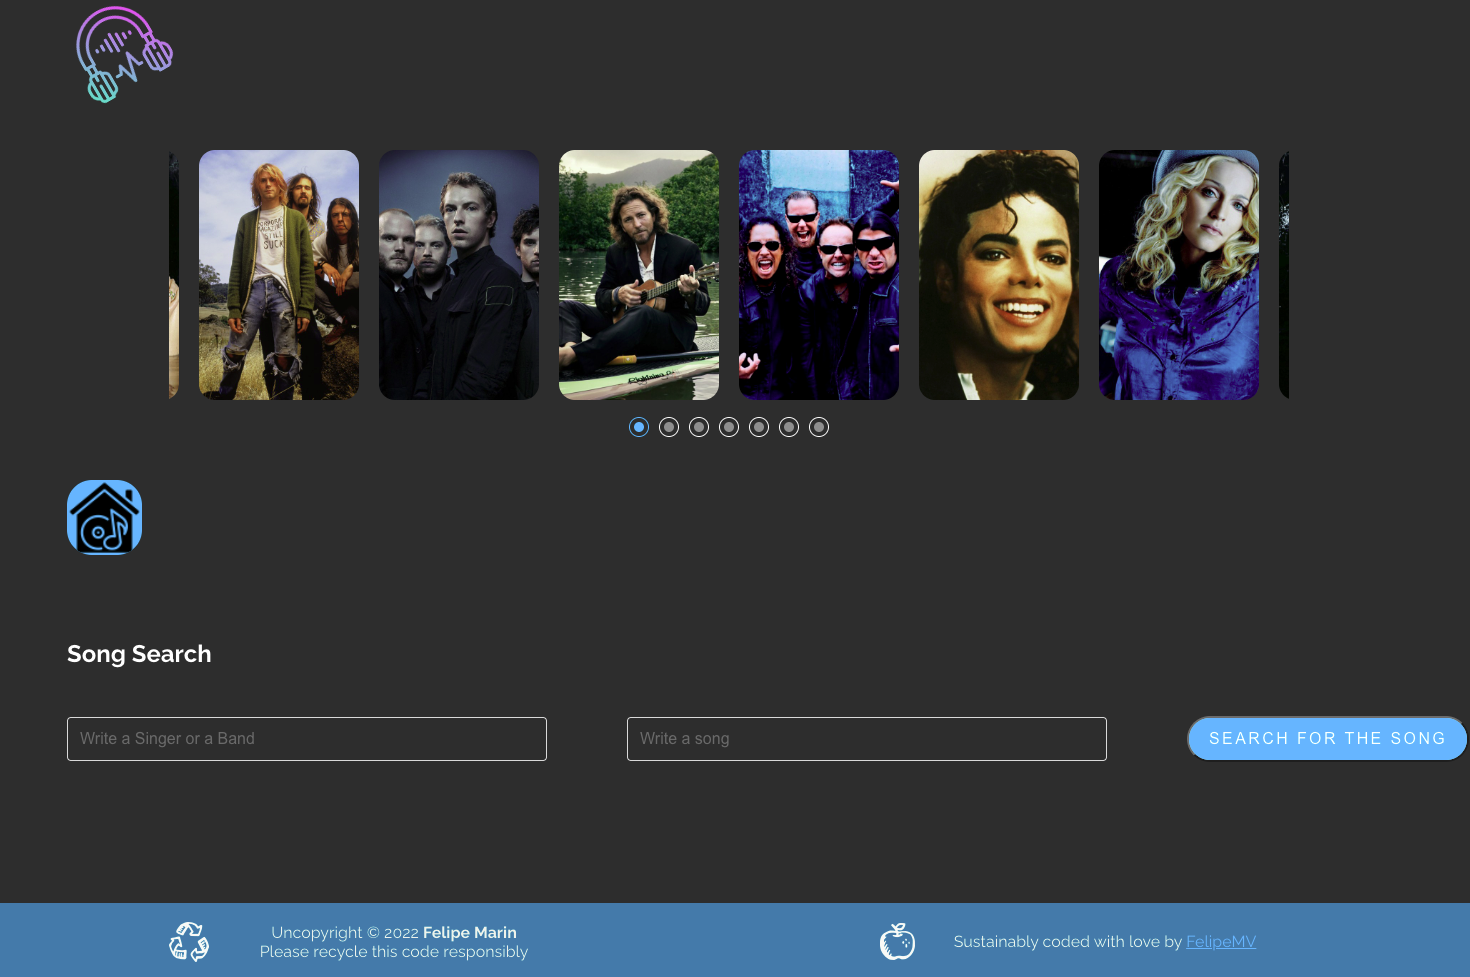
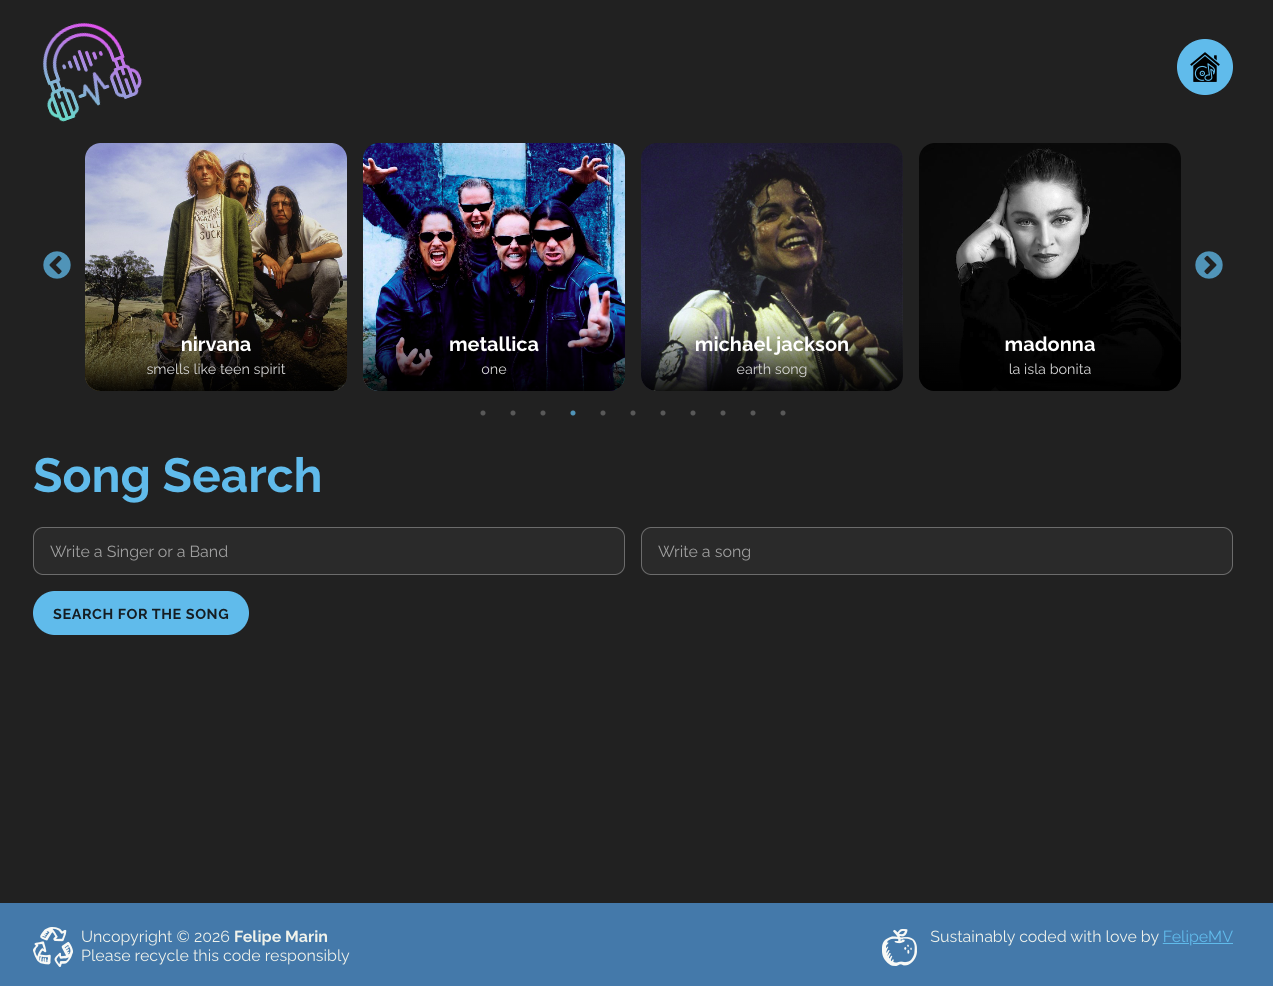
Update project README and application preview

diff --git a/README.md b/README.md
@@ -1,24 +1,149 @@
-# Music Player
+# MusicPlayer
 
-You can check out the link for this project: https://pipe-mv.github.io/MusicPlayer/
+A responsive React and TypeScript application for discovering music. Search by
+artist and song to watch matching YouTube videos, read lyrics, learn about the
+artist, and save favourite songs for later.
 
-### What is this?
+[View the live application](https://pipe-mv.github.io/MusicPlayer/)
 
-This is a repo that houses the base code for a React.js application. The Music Player app will allow the user to search and play the video of any song. Additionally it will display the lyrics and information about the singer or band. Also, allow the users to save theirs favorite songs in a carousel which make it easy to scroll and select the favorite song once it is saved!
+![MusicPlayer application preview](./src/images/LandingPage.png)
 
-![](./src/images/LandingPage.png)
+## Features
 
-## Clone the repository
+- Search for songs by artist and title.
+- Watch matching videos with the embedded YouTube player.
+- Read song lyrics and artist information.
+- Save and remove favourite songs in browser storage.
+- Browse favourites in a responsive carousel.
+- Use the application across phone, tablet, and desktop screen sizes.
+- Navigate directly to saved song details with client-side routing.
 
-### Create a .env file inside the main directory
+## Technology
 
-1. Create a .env file just like .env file
-2. Take your Application Key from (https://developers.google.com/youtube/v3) website (sign up for the API and then you will get the necessary id and key for the .env) and fill out the variable with the name REACT_APP_YOUTUBE_API_KEY in the .env file.
+- React 19
+- TypeScript
+- React Router
+- React Player
+- React Slick
+- Create React App
+- GitHub Actions
+- GitHub Pages
 
-Then run:
+## External services
 
-#### "npm install"
+MusicPlayer combines information from the following services:
 
-Finally, run:
+- [YouTube Data API](https://developers.google.com/youtube/v3) for video search.
+- [Lyrics.ovh](https://lyricsovh.docs.apiary.io/) for song lyrics.
+- [TheAudioDB](https://www.theaudiodb.com/api_guide.php) for artist details.
 
-#### "npm run start"
+Availability and search results depend on these external services.
+
+## Getting started
+
+### Requirements
+
+- Node.js 22
+- npm
+- A YouTube Data API browser key
+
+### Installation
+
+Clone the repository and install its dependencies:
+
+```bash
+git clone https://github.com/pipe-mv/MusicPlayer.git
+cd MusicPlayer
+npm install
+```
+
+Create a `.env` file in the project root:
+
+```env
+REACT_APP_YOUTUBE_API_KEY=your_youtube_api_key
+```
+
+Start the development server:
+
+```bash
+npm start
+```
+
+The application will be available at
+`http://localhost:3000/MusicPlayer/`.
+
+## API key security
+
+The YouTube key is used by a browser application and is therefore visible in
+the compiled frontend. Protect it in Google Cloud by:
+
+- Restricting the key to the YouTube Data API v3.
+- Adding HTTP referrer restrictions for the production and local URLs.
+- Setting API quotas and monitoring usage.
+- Keeping `.env` files out of Git.
+
+Never commit `.env` files or OAuth client-secret JSON files.
+
+## Available commands
+
+```bash
+npm start
+```
+
+Runs the local development server.
+
+```bash
+npm run typecheck
+```
+
+Checks the TypeScript source without producing build files.
+
+```bash
+npm test -- --watchAll=false
+```
+
+Runs the test suite once.
+
+```bash
+npm run build
+```
+
+Creates an optimized production build.
+
+## Architecture
+
+The source uses a feature-oriented architecture. Search and favourites are
+independent modules with four primary layers:
+
+- `domain` defines feature data and types.
+- `application` contains hook controllers and feature coordination.
+- `infrastructure` integrates APIs and browser storage.
+- `ui` contains screens and presentation components.
+
+Shared utilities and components live under `src/shared`, while `src/app/App.tsx`
+connects routes and features.
+
+See [ARCHITECTURE.md](./ARCHITECTURE.md) for the complete structure and file
+placement guidance.
+
+## Continuous integration and deployment
+
+Pull requests targeting `main` must pass:
+
+- TypeScript checking
+- Automated tests
+- Production build verification
+
+After changes are merged into `main`, GitHub Actions repeats the checks, builds
+the application with the production YouTube API secret, and deploys the build
+artifact to GitHub Pages. A failed verification prevents deployment.
+
+## Data persistence
+
+Favourite songs are stored in the browser's `localStorage`. They remain on the
+same browser and device, but they are not synchronized between devices or user
+accounts.
+
+## Author
+
+Created and maintained by [Felipe Marin](https://github.com/pipe-mv).
